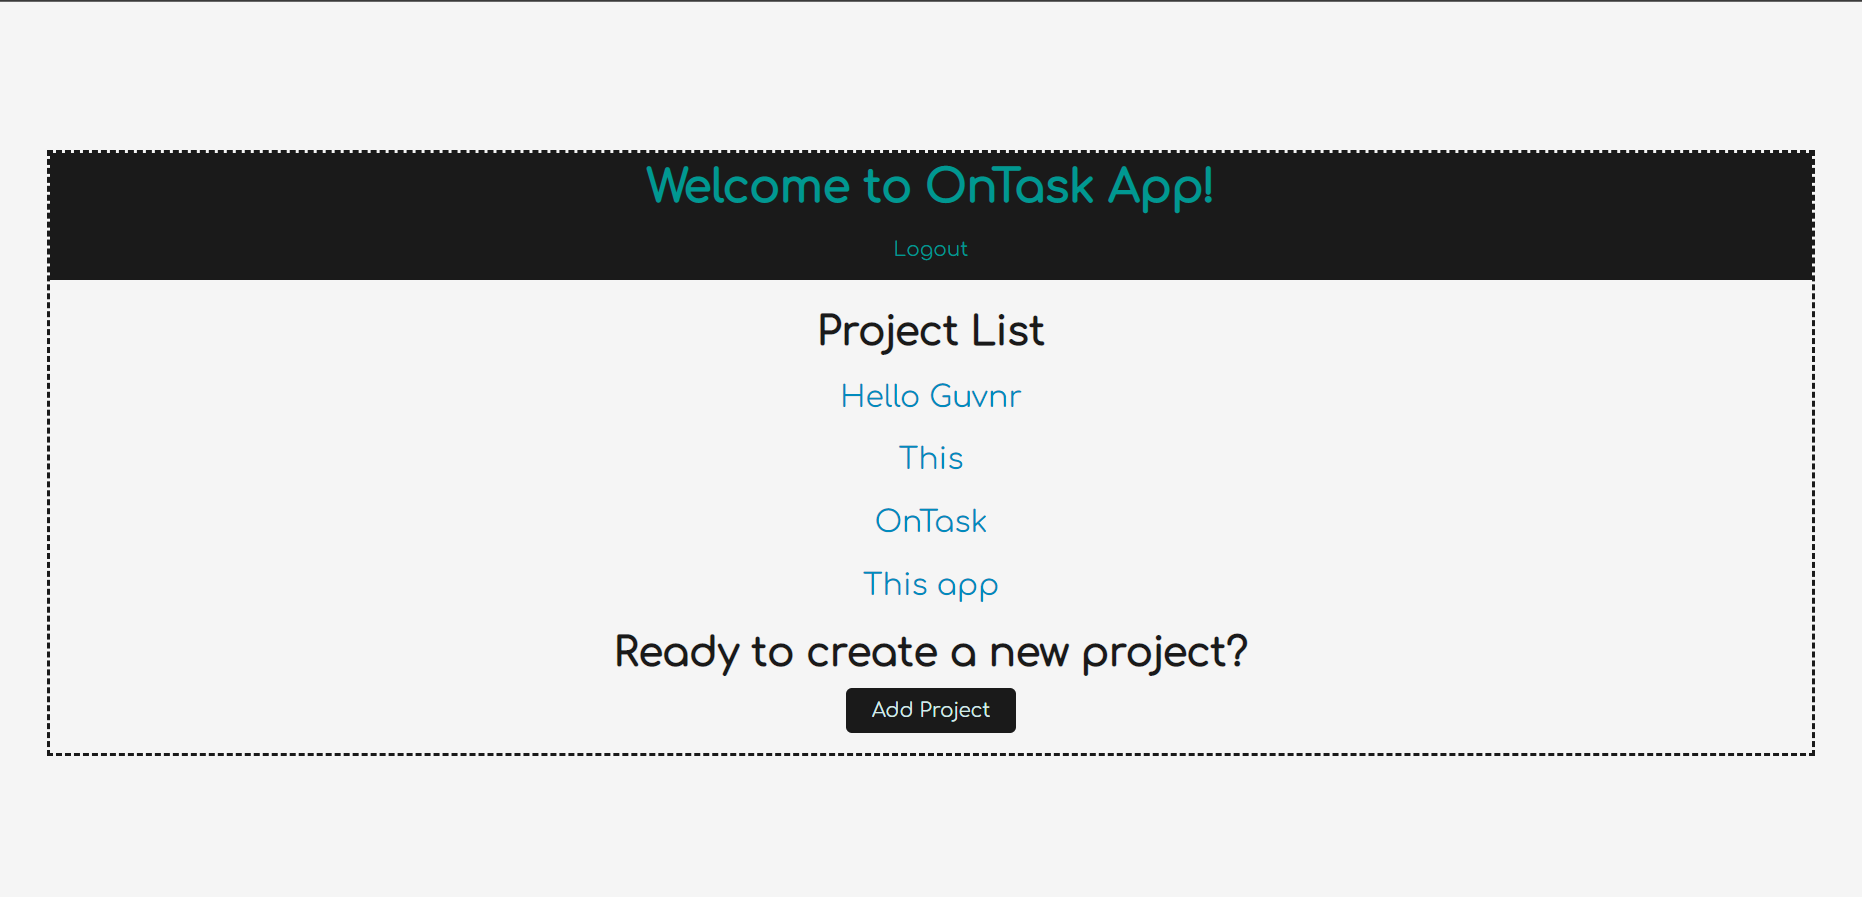
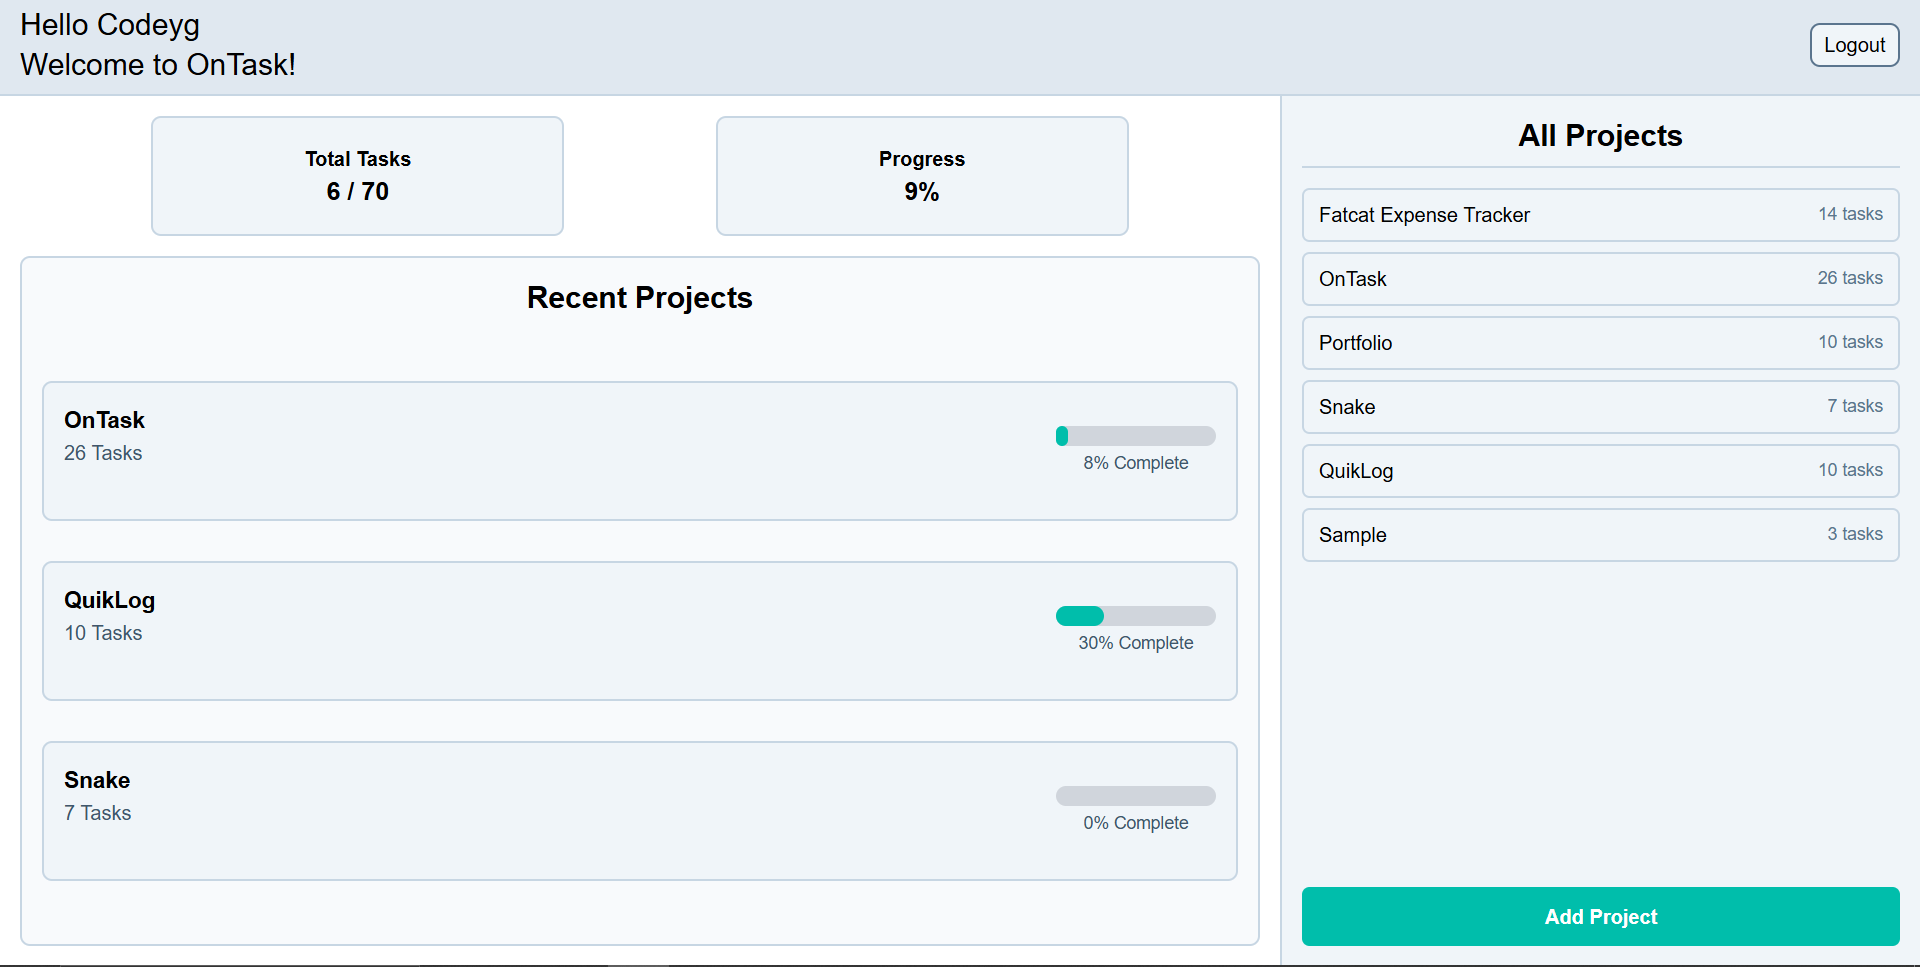
New project images and gifs

diff --git a/src/assets/index.js b/src/assets/index.js
@@ -7,5 +7,11 @@ import Employee from "./mysqletrack.png";
 import Hangman from "./starhang.png";
 import Book from "./booksearch.png";
 import Weather from './weather.png'
+import Fatcat from "./fatcat.png";
+import OnTaskGif from "./ontask.gif"
+import QuikLogVSC from "./vscode-quiklog.gif";
+import QuikLogJB from "./jetbrains-quiklog.gif";
+import QuikLogJBMarket from "./qljb-market.png"
+import QuikLogVSCMarket from "./qlvsc-market.png"
 
-export { ORM, Jate, TechTalk, Scribe, OnTask, Employee, Hangman, Book, Weather };
+export { ORM, Jate, TechTalk, Scribe, OnTask, Employee, Hangman, Book, Weather, Fatcat, OnTaskGif, QuikLogVSC, QuikLogJB, QuikLogJBMarket, QuikLogVSCMarket };
